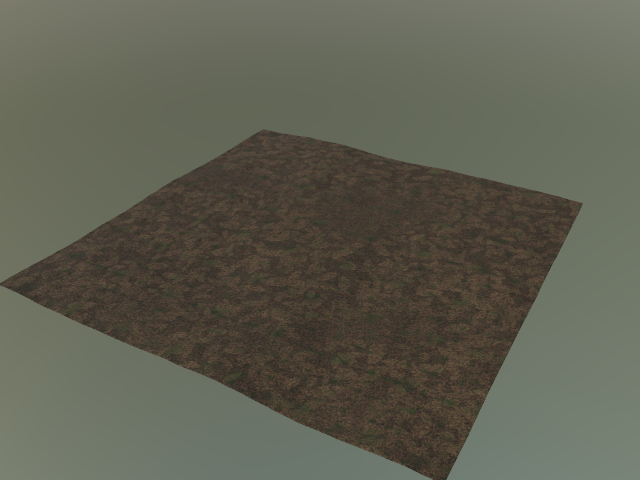
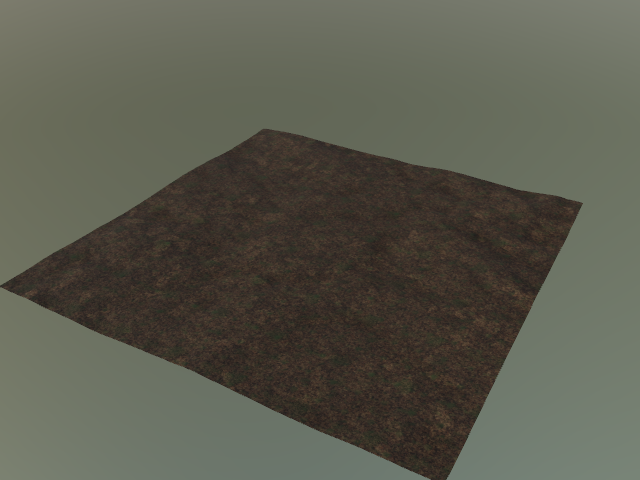
ground-patch: eroded relief with gullies, baked hollow occlusion; GroundMesh disc helper

diff --git a/Sources/RealLibrary/Nature/Ground/GroundMesh.swift b/Sources/RealLibrary/Nature/Ground/GroundMesh.swift
@@ -1,0 +1,76 @@
+import simd
+import Foundation
+
+/// Shared builders for ground assets: an eroded noise field and an irregular disc mesh whose rim
+/// sinks below y = 0 so it blends into whatever ground it is placed on.
+enum GroundMesh {
+    /// fBm whose octaves fade where the accumulated slope is steep (Quilez-style "eroded" noise):
+    /// smooth flanks, detail kept in flats and valleys. Roughly -1...1.
+    static func eroded(_ p: V2, octaves: Int, seed: UInt32, gain: Float = 0.5) -> Float {
+        var sum: Float = 0, amp: Float = 0.5, q = p
+        var d = V2.zero
+        let e: Float = 0.01
+        for o in 0..<octaves {
+            let s = seed &+ UInt32(o) &* 31
+            let n = Noise.perlin(V3(q.x, 0, q.y), seed: s)
+            let nx = Noise.perlin(V3(q.x + e, 0, q.y), seed: s), nz = Noise.perlin(V3(q.x, 0, q.y + e), seed: s)
+            d += V2(nx - n, nz - n) / e * amp
+            sum += amp * n / (1 + simd_dot(d, d) * 0.6)
+            q = V2(q.x * 1.6 - q.y * 1.2, q.x * 1.2 + q.y * 1.6)   // rotate + scale x2
+            amp *= gain
+        }
+        return sum * 1.6
+    }
+
+    /// Irregular disc: center vertex plus `rings` x `sectors` polar grid. `outline(angle)` gives the rim
+    /// radius in meters, `height(p, t)` the surface height at p with t = 0 center ... 1 rim.
+    /// UVs are meters (x, -z), matching `Prim.terrain`.
+    static func disc(material: MaterialKey, rings: Int, sectors: Int, outline: (Float) -> Float,
+                     height: (V2, Float) -> Float) -> Surface {
+        var s = Surface(material: material)
+        s.add(V3(0, height(.zero, 0), 0), .up, .zero)
+        for r in 1...rings {
+            let t = Float(r) / Float(rings)
+            for k in 0..<sectors {
+                let a = Float(k) / Float(sectors) * 2 * .pi
+                let p = V2(cos(a), sin(a)) * outline(a) * t
+                s.add(V3(p.x, height(p, t), p.y), .up, V2(p.x, -p.y))
+            }
+        }
+        let n = UInt32(sectors)
+        for k in 0..<n { s.tri(0, 1 + (k + 1) % n, 1 + k) }
+        for r in 0..<UInt32(rings - 1) {
+            let a0 = 1 + r * n, b0 = 1 + (r + 1) * n
+            for k in 0..<n {
+                let k1 = (k + 1) % n
+                s.quad(a0 + k, a0 + k1, b0 + k1, b0 + k)
+            }
+        }
+        s.recomputeNormals(weldSeams: false)
+        s.computeTangents()
+        return s
+    }
+
+    /// Hollow occlusion for a square grid surface (vertex order as `Prim.terrain`): vertices below the
+    /// average of their neighbors `radius` cells away darken, scaled by `relief` meters.
+    static func shadeHollows(_ s: inout Surface, gridSide n: Int, radius r: Int, relief: Float, strength: Float) {
+        guard s.positions.count == n * n else { return }
+        let y = s.positions.map(\.y)
+        func h(_ i: Int, _ j: Int) -> Float { y[min(max(j, 0), n - 1) * n + min(max(i, 0), n - 1)] }
+        for j in 0..<n { for i in 0..<n {
+            var acc: Float = 0
+            for (di, dj) in [(r, 0), (-r, 0), (0, r), (0, -r), (r, r), (-r, -r), (r, -r), (-r, r)] { acc += h(i + di, j + dj) }
+            let depth = max(0, acc / 8 - h(i, j))
+            s.occlusion[j * n + i] *= saturate(1 - depth / max(relief, 0.01) * 2.5 * strength)
+        }}
+    }
+
+    /// Rim falloff for discs: 1 inside, easing to 0 at t = 1, so heights can sink below the ground.
+    static func rim(_ t: Float, from: Float = 0.7) -> Float { 1 - smoothstep(from, 1, t) }
+
+    /// Wobbly outline radius for disc builders.
+    static func outline(_ a: Float, radius: Float, wobble: Float, seed: UInt32) -> Float {
+        let c = V3(cos(a), sin(a), 0) * 1.3
+        return radius * (1 + wobble * Noise.fbm(c + V3(0, 0, Float(seed % 97)), octaves: 3, seed: seed))
+    }
+}

diff --git a/Sources/RealLibrary/Nature/Ground/GroundPatch.swift b/Sources/RealLibrary/Nature/Ground/GroundPatch.swift
@@ -1,36 +1,55 @@
 import simd
 import Foundation
 
-/// Terrain patch with gentle relief. UVs in meters for the ground material's tile size.
+/// Square terrain patch, 40 m by default, with eroded relief: smooth flanks, shallow gullies, detail in
+/// the flats, and baked occlusion in hollows. UVs in meters for the ground material's tile size.
 public struct GroundPatch: RealAsset {
     public static let id = "ground-patch"
-    public static let summary = "Square heightfield terrain with fBm relief and forest-floor material."
+    public static let summary = "Square heightfield terrain with eroded fBm relief, shallow gullies, baked hollow occlusion and forest-floor material."
     public static let tags = ["nature", "ground", "terrain"]
     public static let budget = 60_000
     public static let preview = PreviewHint(azimuth: 30, elevation: 32, distance: 0.8, ground: false, fog: 0)
+    /// Side length in meters.
     public var size: Float = 40
     public var segments = 128
-    public var relief: Float = 0.35
+    /// Peak-to-trough relief scale in meters.
+    public var relief: Float = 0.6
+    /// Depth of the gullies cut by the ridged term, as a fraction of `relief`.
+    public var gullies: Float = 0.35
+    /// Feature size of the relief in meters (larger = broader hills).
+    public var featureSize: Float = 12.5
     public var material: MaterialKey = "ground.forest"
     /// Keep the center flat (radius, meters) so props sit cleanly.
     public var flatCenter: Float = 3
+    /// Strength of baked occlusion in hollows (0 = none).
+    public var hollowShade: Float = 0.6
     public init() {}
+
     public func build(seed: UInt64) -> LODModel {
-        let ns = UInt32(truncatingIfNeeded: seed)
-        let s = Prim.terrain(size: V2(size, size), segments: segments, material: material) { p in
-            let h = Noise.fbm(V3(p.x * 0.08, 0, p.y * 0.08), octaves: 5, seed: ns) * relief * 2
-            let r = simd_length(p)
-            let edge = smoothstep(size * 0.42, size * 0.5, max(abs(p.x), abs(p.y)))
-            return h * smoothstep(flatCenter, flatCenter * 2.5, r) - edge * 0.05
+        var s = Prim.terrain(size: V2(size, size), segments: segments, material: material) { p in
+            height(x: p.x, z: p.y, seed: seed) - edgeDrop(p)
         }
+        if hollowShade > 0 { GroundMesh.shadeHollows(&s, gridSide: segments + 1, radius: max(2, segments / 24), relief: relief, strength: hollowShade) }
         return LODModel(Model(name: Self.id, surfaces: [s]))
+    }
+
+    func edgeDrop(_ p: V2) -> Float { smoothstep(size * 0.42, size * 0.5, max(abs(p.x), abs(p.y))) * 0.05 }
+
+    /// Height before the flat-center mask.
+    func rawHeight(_ p: V2, seed: UInt64) -> Float {
+        let ns = UInt32(truncatingIfNeeded: seed)
+        let f = 1 / max(featureSize, 0.5)
+        let w = V2(Noise.perlin(V3(p.x * f * 0.5, 3.1, p.y * f * 0.5), seed: ns &+ 5),
+                   Noise.perlin(V3(p.x * f * 0.5, 7.7, p.y * f * 0.5), seed: ns &+ 6)) * 0.6
+        let q = p * f + w
+        let base = GroundMesh.eroded(q, octaves: 6, seed: ns)
+        let gully = Noise.ridged(V3(q.x * 0.7, 0, q.y * 0.7), octaves: 3, seed: ns &+ 9)
+        return (base - gully * gullies + gullies * 0.4) * relief
     }
 
     /// Height at (x, z) matching the mesh (for placing instances on the ground).
     public func height(x: Float, z: Float, seed: UInt64) -> Float {
-        let ns = UInt32(truncatingIfNeeded: seed)
         let p = V2(x, z)
-        let h = Noise.fbm(V3(p.x * 0.08, 0, p.y * 0.08), octaves: 5, seed: ns) * relief * 2
-        return h * smoothstep(flatCenter, flatCenter * 2.5, simd_length(p))
+        return rawHeight(p, seed: seed) * smoothstep(flatCenter, flatCenter * 2.5, simd_length(p))
     }
 }
